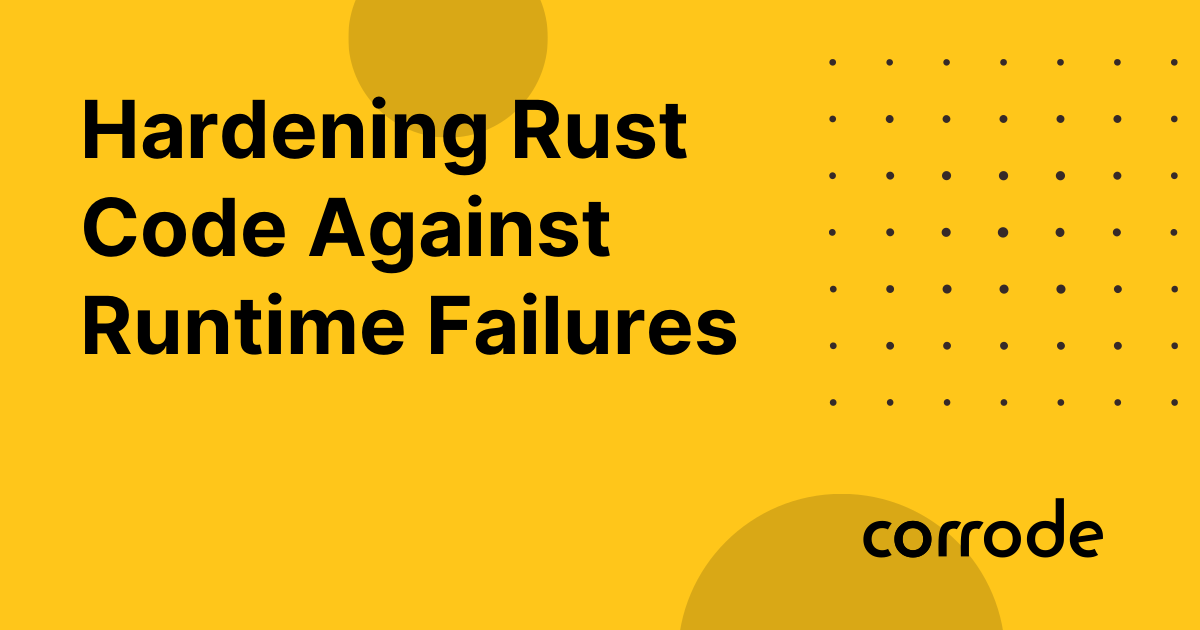
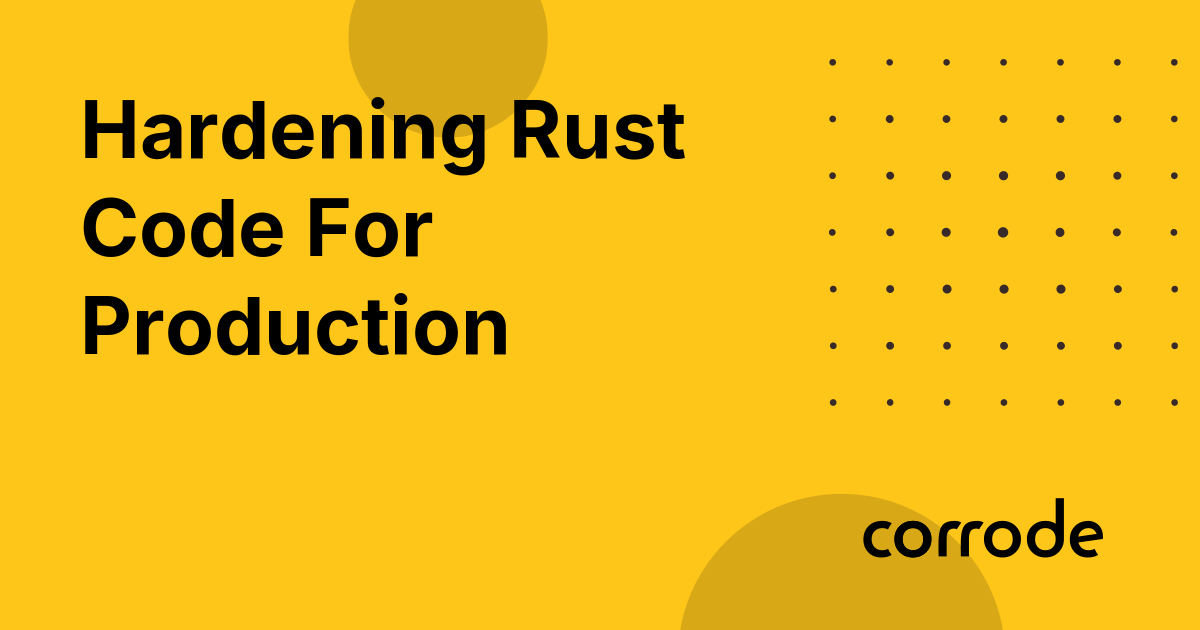
Add cargo-llvm-cov and update social image

Changed region(s): [[0.0617, 0.3016, 0.6167, 0.573], [0.1233, 0.181, 0.4008, 0.2714], [0.4317, 0.181, 0.5858, 0.2413]]

diff --git a/content/blog/hardening-rust/index.md b/content/blog/hardening-rust/index.md
@@ -173,6 +173,8 @@ Be explicit about whether a failure may take down a single task, a single thread
 
 Never panic in an uncontrolled manner.
 
+If you maintain a library, you have less control over where your code runs and what a panic can take down. Consider enabling stricter Clippy lints such as [`indexing_slicing`](https://rust-lang.github.io/rust-clippy/master/index.html#indexing_slicing) and [`arithmetic_side_effects`](https://rust-lang.github.io/rust-clippy/master/index.html#arithmetic_side_effects) to catch common panic sources before they become part of your public API. Those lints can be noisy in applications, but they are often useful when panic freedom matters more than convenience.
+
 ## Observing Failures With Panic Hooks
 
 Now that you understand how panics work, let's talk about operational hardening.
@@ -795,7 +797,8 @@ Finally, here are some more tools that help you catch problems before they hit p
 - [`honggfuzz`](https://github.com/google/honggfuzz) -- another fuzzer with Rust support
 - [`cargo-geiger`](https://github.com/geiger-rs/cargo-geiger) -- detects usage of unsafe code
 - [`cargo-valgrind`](https://github.com/jfrimmel/cargo-valgrind) -- runs Valgrind on Rust code to find memory errors
-- [`cargo-tarpaulin`](https://github.com/xd009642/tarpaulin) -- code coverage analysis for Rust projects to identify untested code paths, which can help you find edge cases that might lead to runtime failures
+- [`cargo-llvm-cov`](https://github.com/taiki-e/cargo-llvm-cov) -- code coverage via rustc/LLVM source-based instrumentation (`-C instrument-coverage`). It reports line and region coverage, works with `cargo test` and `cargo nextest`, and is a good default for new projects.
+- [`cargo-tarpaulin`](https://github.com/xd009642/tarpaulin) -- an older Rust coverage tool with strong Cargo and CI ergonomics. On Linux it defaults to a `ptrace` backend (`x86_64` only); LLVM coverage is available through `--engine llvm` and is the default on macOS and Windows. Useful if its reports fit your workflow, but expect different platform and test-runner edge cases than `cargo-llvm-cov`.
 
 The tools above help catch undefined behavior, memory safety issues, code coverage gaps, and performance bottlenecks.
 They are dynamic analysis tools that complement Rust's static guarantees.